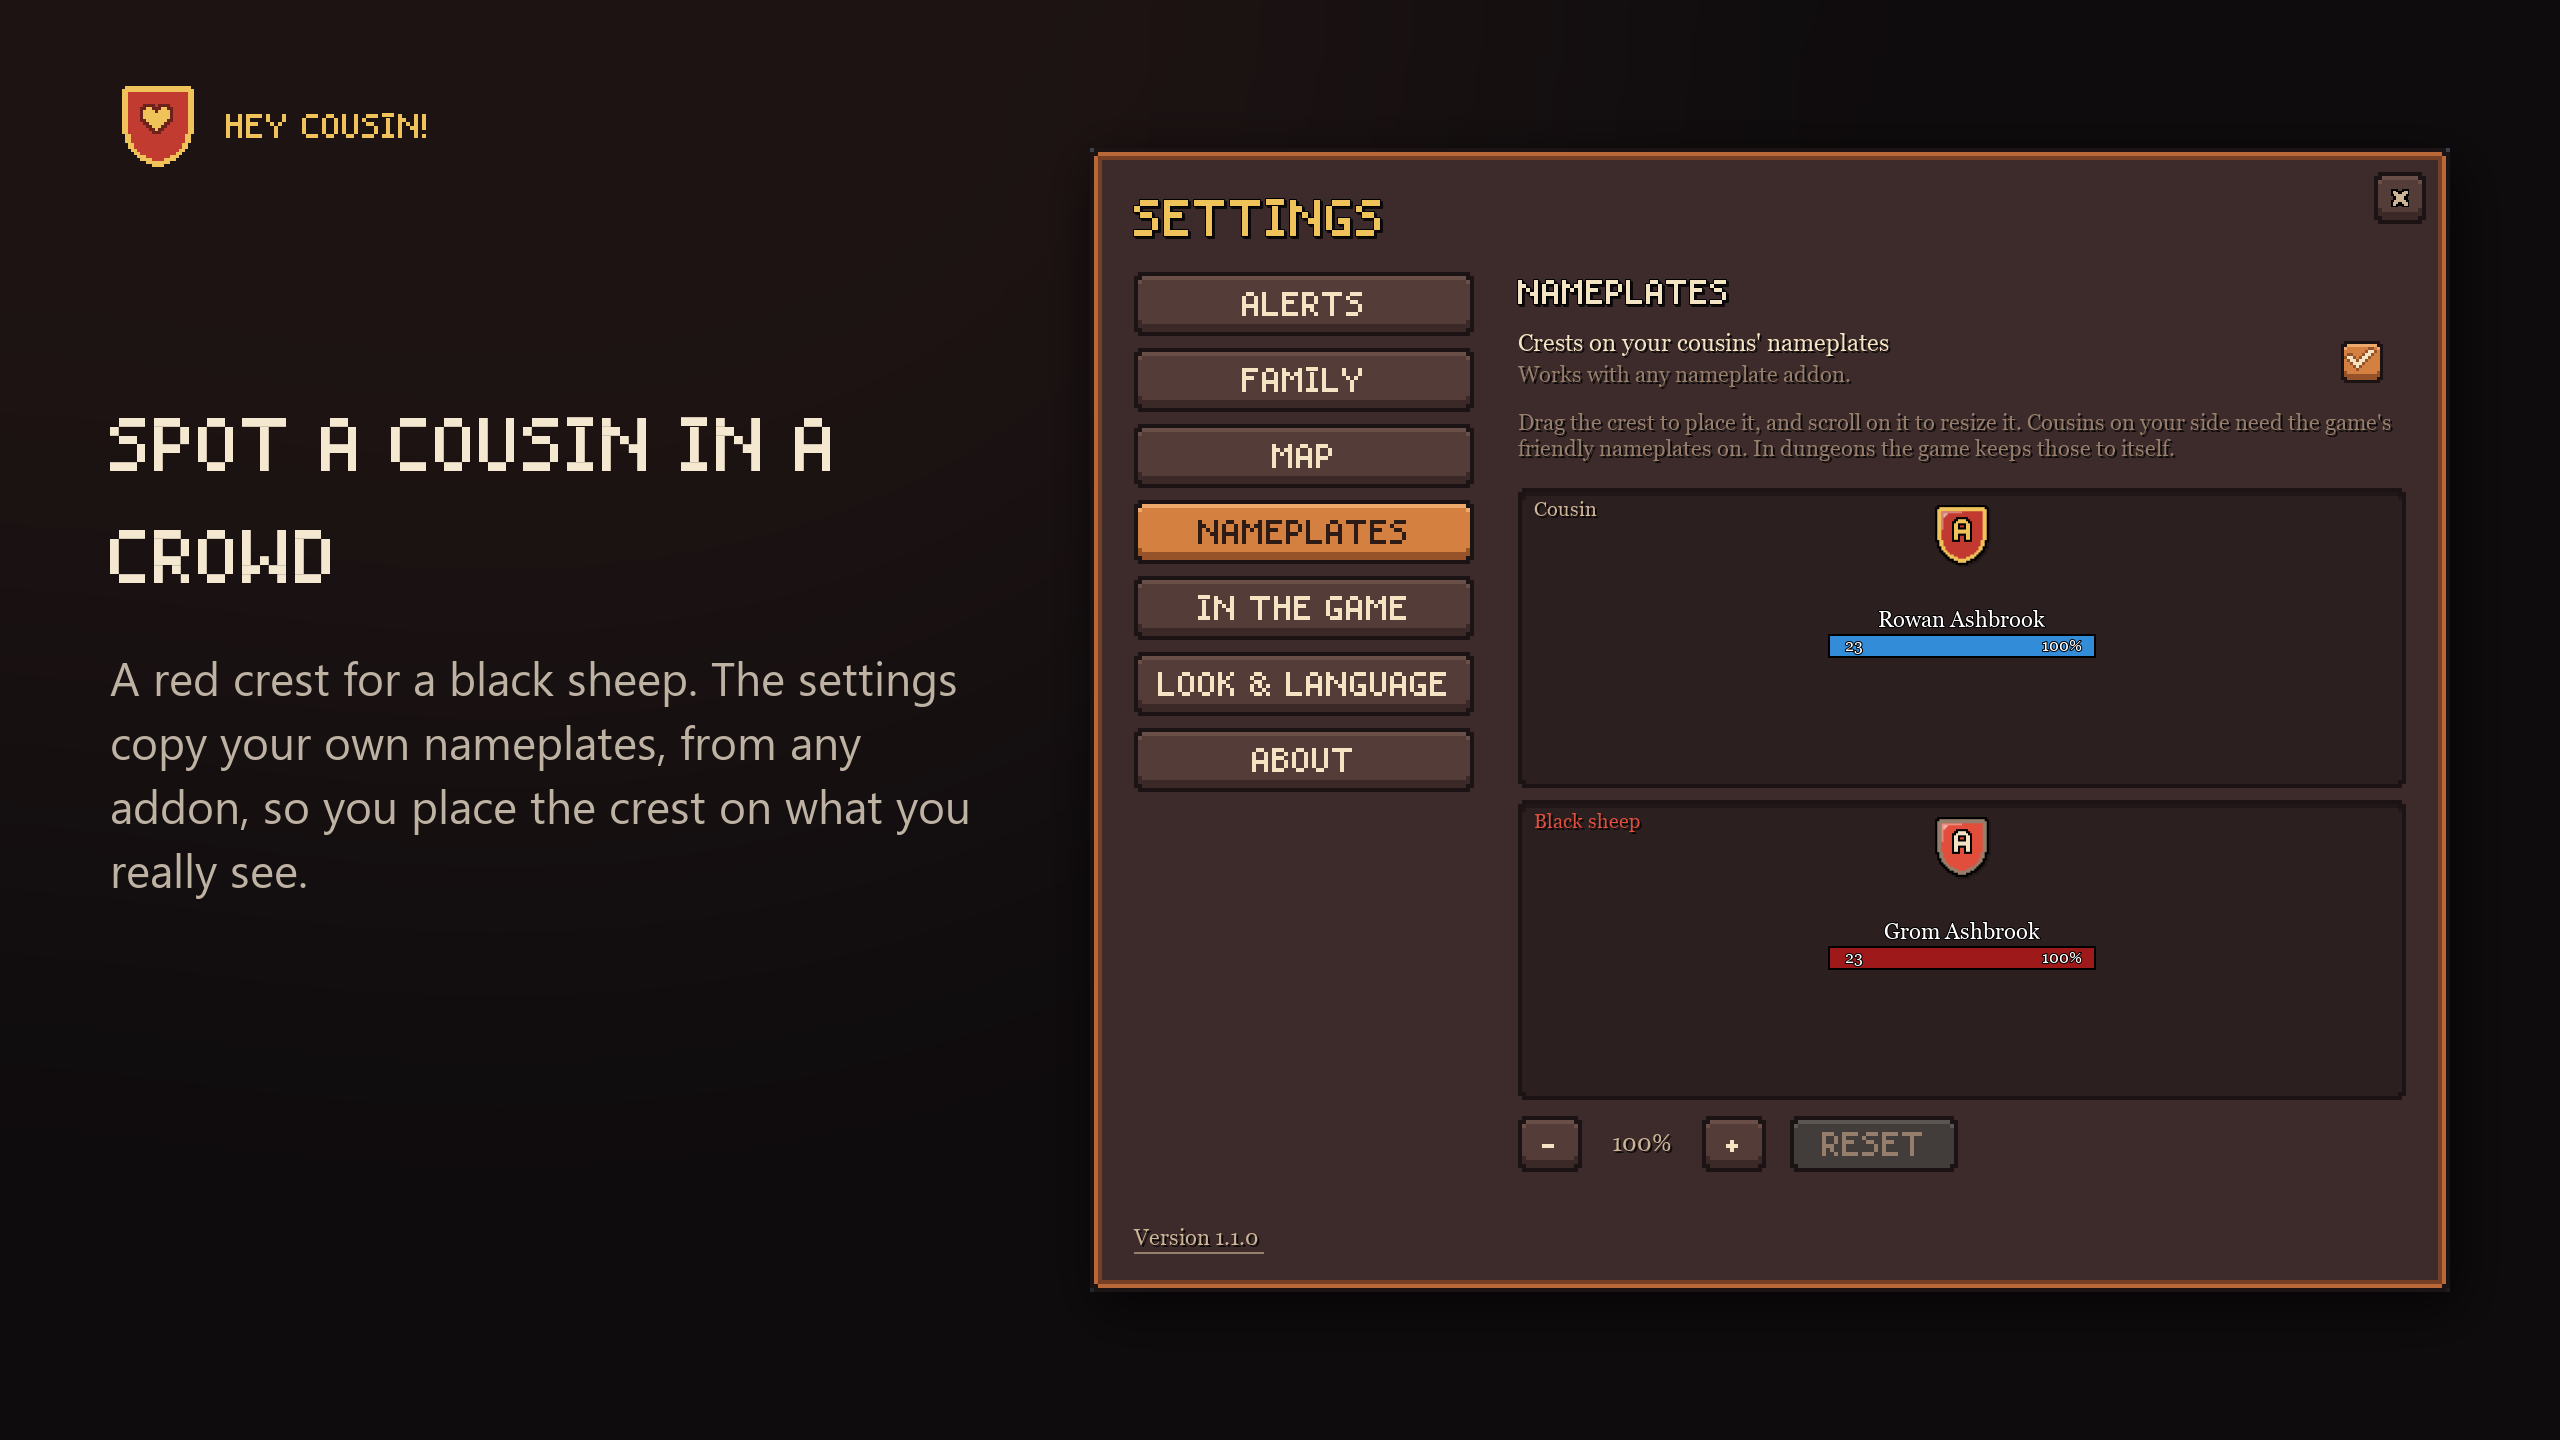
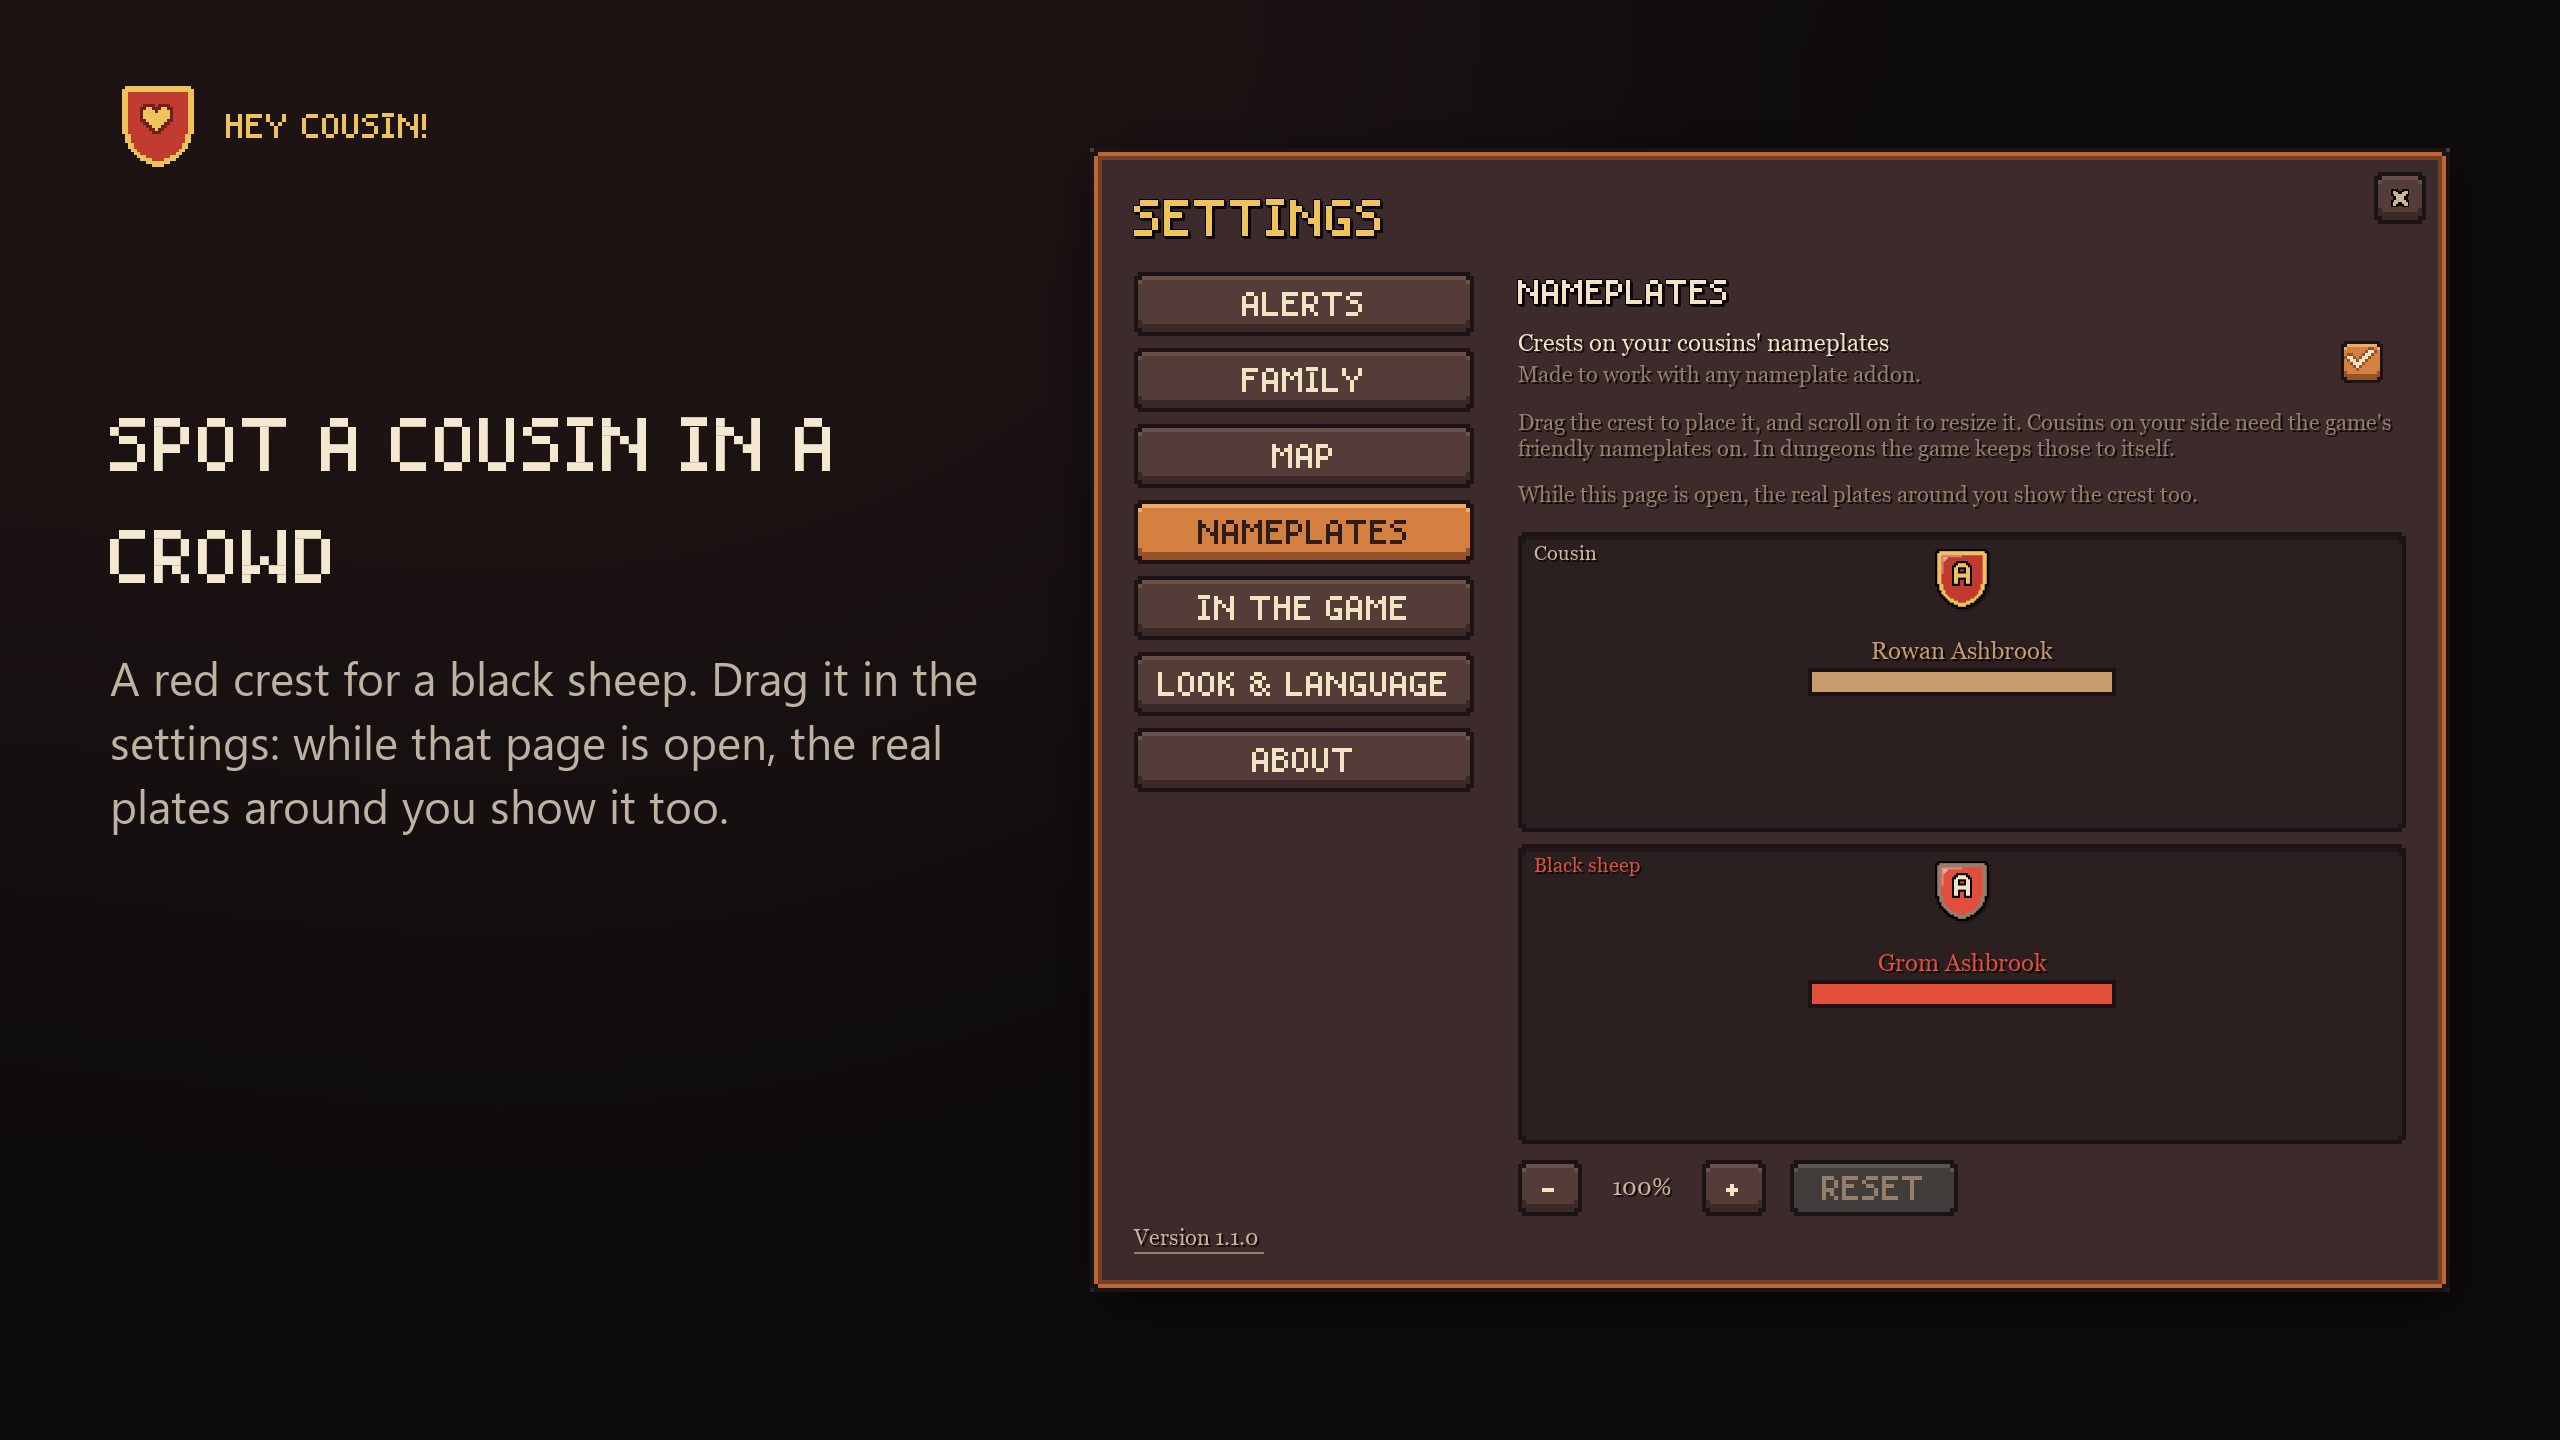
The store page and pictures say what the nameplate page really does
The settings don't copy your plates: while the page is open, the real plates around you show the crest.
Both descriptions, the nameplate picture and the README say so, and that it's been tried on EllesmereUI only.

diff --git a/Listing/make_shots.py b/Listing/make_shots.py
@@ -287,7 +287,7 @@ def main():
     window_card("portrait.png", "2bc-portrait.png", "A FAMILY PORTRAIT",
                 "Your house on one card: crest, motto, numbers and the cousins you meet most. Made for a screenshot.")
     window_card("nameplates.png", "5f-settings-plates.png", "SPOT A COUSIN IN A CROWD",
-                "A red crest for a black sheep. The settings copy your own nameplates, from any addon, so you place the crest on what you really see.")
+                "A red crest for a black sheep. Drag it in the settings: while that page is open, the real plates around you show it too.")
     map_card()
     hey_card()
 

diff --git a/Listing/description.md b/Listing/description.md
@@ -41,7 +41,7 @@ A cousin on the other side of the war is the family's **black sheep**, with a po
 
 ![Spot a cousin in a crowd](IMAGE_PLATES)
 
-Your family's crests on nameplates, and a red one on a black sheep's enemy nameplate, so you know who you're fighting. They're made to work with any nameplate addon, such as Plater, ElvUI or Kui. The settings copy your own nameplates, a friendly player's and an enemy player's, so you place the crest on what you really see. Drag and resize it, and real nameplates follow as you do it.
+Your family's crests on nameplates, and a red one on a black sheep's enemy nameplate, so you know who you're fighting. Drag and resize the crest in the settings: while that page is open, the real nameplates around you show it too, so you see exactly where it goes. Tried on EllesmereUI's nameplates, and made to work with any other, such as Plater, ElvUI or Kui.
 
 ## The family map
 
@@ -120,6 +120,6 @@ Pixel, Forever (the classic game's parchment) and Smooth. Switch any time.
 
 ## Still young
 
-The game is new, and so is this. Family chat and the map are tested between real players. The guild features, groups, and the minimap and nameplate crests have had the least testing in the live game. If something looks wrong, or you try it with your nameplate addon, please tell me in the comments or on [GitHub](https://github.com/powercover/HeyCousin/issues).
+The game is new, and so is this. Family chat and the map are tested between real players. The guild features, groups, and the minimap and nameplate crests have had the least testing in the live game. If something looks wrong, or you try it with your nameplate addon (open the settings' Nameplates page to see), please tell me in the comments or on [GitHub](https://github.com/powercover/HeyCousin/issues).
 
 The [source code](https://github.com/powercover/HeyCousin) is there too, so you can read exactly what the addon sends. All rights reserved.

diff --git a/Listing/description-curseforge.md b/Listing/description-curseforge.md
@@ -35,7 +35,7 @@ A cousin on the other side of the war is the family's **black sheep**, with a po
 
 ## Spot a cousin in a crowd
 
-Your family's crests on nameplates, and a red one on a black sheep's enemy nameplate, so you know who you're fighting. They're made to work with any nameplate addon, such as Plater, ElvUI or Kui. The settings copy your own nameplates, a friendly player's and an enemy player's, so you place the crest on what you really see. Drag and resize it, and real nameplates follow as you do it.
+Your family's crests on nameplates, and a red one on a black sheep's enemy nameplate, so you know who you're fighting. Drag and resize the crest in the settings: while that page is open, the real nameplates around you show it too, so you see exactly where it goes. Tried on EllesmereUI's nameplates, and made to work with any other, such as Plater, ElvUI or Kui.
 
 ## The family map
 
@@ -106,6 +106,6 @@ Pixel, Forever (the classic game's parchment) and Smooth. Switch any time.
 
 ## Still young
 
-The game is new, and so is this. Family chat and the map are tested between real players. The guild features, groups, and the minimap and nameplate crests have had the least testing in the live game. If something looks wrong, or you try it with your nameplate addon, please tell me in the comments or on [GitHub](https://github.com/powercover/HeyCousin/issues).
+The game is new, and so is this. Family chat and the map are tested between real players. The guild features, groups, and the minimap and nameplate crests have had the least testing in the live game. If something looks wrong, or you try it with your nameplate addon (open the settings' Nameplates page to see), please tell me in the comments or on [GitHub](https://github.com/powercover/HeyCousin/issues).
 
 The [source code](https://github.com/powercover/HeyCousin) is there too, so you can read exactly what the addon sends. All rights reserved.

diff --git a/Listing/description-wago.md b/Listing/description-wago.md
@@ -35,7 +35,7 @@ A cousin on the other side of the war is the family's **black sheep**, with a po
 
 ## Spot a cousin in a crowd
 
-Your family's crests on nameplates, and a red one on a black sheep's enemy nameplate, so you know who you're fighting. They're made to work with any nameplate addon, such as Plater, ElvUI or Kui. The settings copy your own nameplates, a friendly player's and an enemy player's, so you place the crest on what you really see. Drag and resize it, and real nameplates follow as you do it.
+Your family's crests on nameplates, and a red one on a black sheep's enemy nameplate, so you know who you're fighting. Drag and resize the crest in the settings: while that page is open, the real nameplates around you show it too, so you see exactly where it goes. Tried on EllesmereUI's nameplates, and made to work with any other, such as Plater, ElvUI or Kui.
 
 ## The family map
 
@@ -106,6 +106,6 @@ Pixel, Forever (the classic game's parchment) and Smooth. Switch any time.
 
 ## Still young
 
-The game is new, and so is this. Family chat and the map are tested between real players. The guild features, groups, and the minimap and nameplate crests have had the least testing in the live game. If something looks wrong, or you try it with your nameplate addon, please tell me in the comments or on [GitHub](https://github.com/powercover/HeyCousin/issues).
+The game is new, and so is this. Family chat and the map are tested between real players. The guild features, groups, and the minimap and nameplate crests have had the least testing in the live game. If something looks wrong, or you try it with your nameplate addon (open the settings' Nameplates page to see), please tell me in the comments or on [GitHub](https://github.com/powercover/HeyCousin/issues).
 
 The [source code](https://github.com/powercover/HeyCousin) is there too, so you can read exactly what the addon sends. All rights reserved.

diff --git a/README.md b/README.md
@@ -44,7 +44,8 @@ a surname, like a family. Hey Cousin! finds your relatives and makes the family 
   you run the addon. Each can be turned off, or all with one switch, and the game's ignore list counts.
 - **"Hey cousin!"**: a button on the pop-up and on a near cousin's page: you wave and say "Hey cousin
   Mira!" out loud. Only ever from a click.
-- **Crests on nameplates**: on the game's own plate frame, so they follow the plate under any nameplate
+- **Crests on nameplates**: while the settings' Nameplates page is open, the real plates around you show
+  the crest too, so you see where it goes. On the game's own plate frame, so they follow the plate under any nameplate
   addon. The settings draw a sample plate: drag the crest, scroll to resize it, and real plates follow.
 - **The family race**: you and the cousins who have the addon, by level, with a line when one passes you.
 - **The family portrait**: your house on one card, made for a screenshot.
